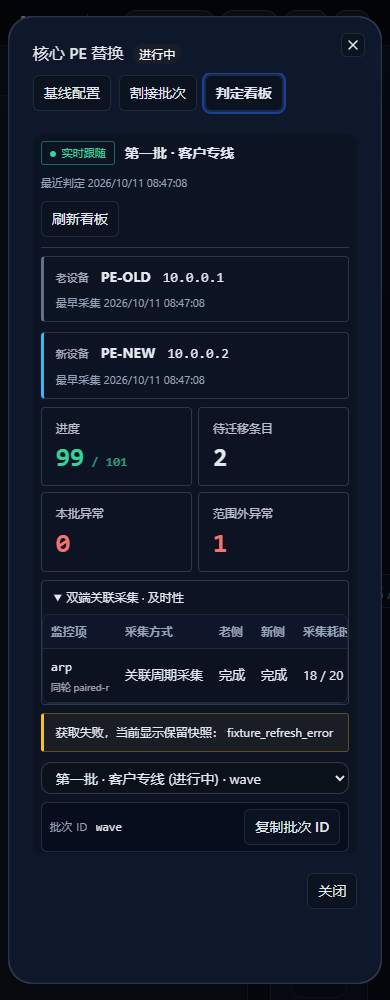
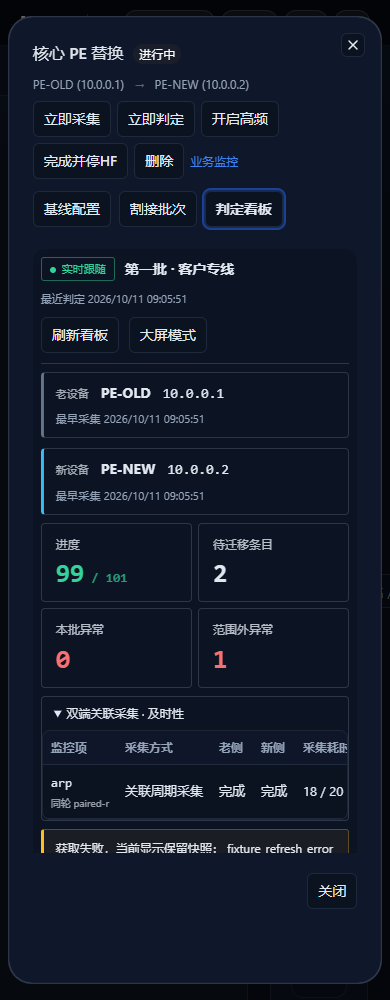
feat(cutover): add live fullscreen monitoring wall

Changed region(s): [[0.0923, 0.062, 0.8923, 0.868], [0.5538, 0.62, 0.7385, 0.682], [0.7692, 0.62, 0.8923, 0.682]]

diff --git a/web/src/pages/network/BizMigrationPage.tsx b/web/src/pages/network/BizMigrationPage.tsx
@@ -489,6 +489,9 @@ export function BizMigrationPage() {
   const [boardLoading, setBoardLoading] = useState(false);
   const [boardError, setBoardError] = useState("");
   const [boardClock, setBoardClock] = useState(Date.now());
+  const [boardFullscreen, setBoardFullscreen] = useState(false);
+  const boardRef = useRef<HTMLDivElement>(null);
+  const fullscreenPending = useRef(false);
   const boardRequest = useRef(0);
   const runsRequest = useRef(0);
   const activeBatchRef = useRef(batchId);
@@ -513,6 +516,66 @@ export function BizMigrationPage() {
   const pairedPending = followLatest && board?.sampling?.some((pair) =>
     [pair.old_collect_status, pair.new_collect_status].some((s) => !["success", "partial"].includes(s || "idle")));
   const coverageUnknown = Boolean(board?.run && (liveSummary?.coverage_complete !== true || samplesStale || pairedPending));
+  const progressPercent = liveProgress?.total
+    ? Math.max(0, Math.min(100, Math.round(liveProgress.ok / liveProgress.total * 100))) : 0;
+  const wallState = boardError ? "unknown" : !board?.run ? "waiting" : coverageUnknown ? "unknown"
+    : (liveSummary?.anomaly || 0) > 0 ? "anomaly" : "normal";
+
+  const exitBoardFullscreen = useCallback(async () => {
+    if (document.fullscreenElement === boardRef.current) {
+      try { await document.exitFullscreen(); } catch { return; }
+    }
+    setBoardFullscreen(false);
+  }, []);
+
+  async function toggleBoardFullscreen() {
+    if (fullscreenPending.current) return;
+    const element = boardRef.current;
+    if (!element) return;
+    fullscreenPending.current = true;
+    try {
+      if (boardFullscreen) {
+        await exitBoardFullscreen();
+        return;
+      }
+      try { await element.requestFullscreen(); } catch { /* Use the full-window layout below. */ }
+      if (boardRef.current === element) setBoardFullscreen(true);
+    } finally {
+      fullscreenPending.current = false;
+    }
+  }
+
+  useEffect(() => {
+    const sync = () => setBoardFullscreen(Boolean(boardRef.current && document.fullscreenElement === boardRef.current));
+    document.addEventListener("fullscreenchange", sync);
+    return () => document.removeEventListener("fullscreenchange", sync);
+  }, []);
+
+  useEffect(() => {
+    const element = boardRef.current;
+    return () => {
+      if (element && document.fullscreenElement === element) void document.exitFullscreen().catch(() => {});
+    };
+  }, [projectId, detailTab]);
+
+  useEffect(() => {
+    if (!boardFullscreen) return;
+    const onEscape = (event: KeyboardEvent) => {
+      if (event.key !== "Escape") return;
+      event.preventDefault();
+      event.stopImmediatePropagation();
+      void exitBoardFullscreen();
+    };
+    window.addEventListener("keydown", onEscape, true);
+    return () => window.removeEventListener("keydown", onEscape, true);
+  }, [boardFullscreen, exitBoardFullscreen]);
+
+  useEffect(() => {
+    if (!projectId || detailTab !== "board") return;
+    // Freshness must keep advancing even when API refreshes fail.
+    const timer = setInterval(() => setBoardClock(Date.now()), 1000);
+    return () => clearInterval(timer);
+  }, [projectId, detailTab]);
 
   const filteredProjects = useMemo(() => {
     const kw = debouncedListKw.trim().toLowerCase();
@@ -1185,6 +1248,7 @@ export function BizMigrationPage() {
   }
 
   const openProject = (id: string, tab: DetailTab = "setup") => {
+    setBoardFullscreen(false);
     setProjectId(id);
     setDetailTab(tab);
     setSelectedExpectKeys(new Set());
@@ -1196,6 +1260,7 @@ export function BizMigrationPage() {
   };
 
   const closeProject = () => {
+    setBoardFullscreen(false);
     setProjectId("");
     setDetailTab("setup");
   };
@@ -2185,9 +2250,10 @@ export function BizMigrationPage() {
       {/* Project detail */}
       <AppModalShell
         open={Boolean(projectId && project)}
-        onClose={closeProject}
-        size="cover"
-        className={detailTab === "board" ? "bs-cmp-board-modal" : undefined}
+        onClose={() => { if (boardFullscreen) void exitBoardFullscreen(); else closeProject(); }}
+        dismissible={!boardFullscreen}
+        size={boardFullscreen ? "full" : "cover"}
+        className={detailTab === "board" ? `bs-cmp-board-modal${boardFullscreen ? " bm-wall-modal" : ""}` : undefined}
       >
         <Modal.Header>
           <Modal.Heading>
@@ -2707,7 +2773,15 @@ export function BizMigrationPage() {
               ) : null}
 
               {detailTab === "board" ? (
-                <div className="bs-cmp-board bm-board">
+                <div ref={boardRef} className={`bs-cmp-board bm-board${boardFullscreen ? " is-wall" : ""}`}>
+                  {boardFullscreen ? <div className="bm-wall-heading">
+                    <div><span className="bm-wall-heading__label">{t("bizMigration.wallTitle")}</span>
+                      <h2>{project.name}</h2></div>
+                    <div className="bm-wall-heading__status">
+                      <span className={`bm-wall-state is-${wallState}`} role="status">{t(`bizMigration.wallState_${wallState}`)}</span>
+                      <time dateTime={new Date(boardClock).toISOString()}>{fmtTime(new Date(boardClock).toISOString())}</time>
+                    </div>
+                  </div> : null}
                   <div className="bm-live-header">
                     <div>
                       <span className={`bm-live-state${monitorIsLive ? " is-live" : ""}`}>
@@ -2716,8 +2790,16 @@ export function BizMigrationPage() {
                       <strong>{batch?.batch_label || "—"}</strong>
                     </div>
                     <span className="muted">{t("bizMigration.evaluatedAt")} {fmtTime(board?.run?.created_at)}</span>
-                    <Button size="sm" variant="secondary" isDisabled={boardLoading || !batchId}
-                      onPress={() => void loadBoard(batchId, historyRunId)}>{t("bizMigration.refreshBoard")}</Button>
+                    <div className="bm-live-header__actions">
+                      <Button size="sm" variant="secondary" isDisabled={boardLoading || !batchId}
+                        onPress={() => void loadBoard(batchId, historyRunId)}>{t("bizMigration.refreshBoard")}</Button>
+                      <Button size="sm" variant="secondary" onPress={() => void toggleBoardFullscreen()}
+                        aria-label={t(boardFullscreen ? "bizMigration.exitFullscreen" : "bizMigration.fullscreen")}
+                        aria-describedby="bm-wall-hint">
+                        {t(boardFullscreen ? "bizMigration.exitFullscreen" : "bizMigration.fullscreen")}
+                      </Button>
+                      <span id="bm-wall-hint" className="visually-hidden">{t("bizMigration.fullscreenHint")}</span>
+                    </div>
                   </div>
                   <div className="bm-live-sources">
                     {(["old", "new"] as const).map((side) => {
@@ -2737,6 +2819,13 @@ export function BizMigrationPage() {
                     <div className="is-bad"><span>{t("bizMigration.anomalyInBatch")}</span><strong>{Math.max(0, (liveSummary?.anomaly ?? 0) - (liveSummary?.anomaly_outside_expect ?? 0))}</strong></div>
                     <div className="is-bad"><span>{t("bizMigration.anomalyOutsideBatch")}</span><strong>{liveSummary?.anomaly_outside_expect ?? 0}</strong></div>
                   </div>
+                  {boardFullscreen ? <div className={`bm-wall-progress${wallState === "unknown" || wallState === "waiting" ? " is-unknown" : ""}`}>
+                    <div><span>{t("bizMigration.wallProgress")}</span><strong>{progressPercent}%</strong></div>
+                    <div className="bm-wall-progress__track" role="progressbar" aria-label={t("bizMigration.wallProgress")}
+                      aria-valuemin={0} aria-valuemax={100} aria-valuenow={progressPercent}>
+                      <span style={{ width: `${progressPercent}%` }} />
+                    </div>
+                  </div> : null}
                   {followLatest && board?.sampling?.length ? <details className="bm-sampling" open>
                     <summary>{t("bizMigration.pairedSampling")}</summary>
                     <div className="pt-list-table-wrap"><table className="data-table pt-list-table">
@@ -2784,6 +2873,8 @@ export function BizMigrationPage() {
                       </span>
                     </div>
                   ) : null}
+                  <details className="bm-board-controls" open={!boardFullscreen}>
+                    <summary>{t("bizMigration.wallFilters")}</summary>
                   <div className="bs-cmp-board__toolbar filter-inline">
                     <FieldSelect
                       value={batchId}
@@ -2879,6 +2970,7 @@ export function BizMigrationPage() {
                         {t("bizMigration.showOutsideAnomalies")}
                       </Button> : null}
                   </div>
+                  </details>
                   {sheetCards.some((c) => c.new_baseline_missing) ? (
                     <div className="form-error bm-hint">
                       {t("bizMigration.newBaselineMissingBanner", {

diff --git a/web/src/index.css b/web/src/index.css
@@ -11213,6 +11213,9 @@ html.login-page--paused .login-page__flare {
 .bm-sampling { border: 1px solid rgba(148,163,184,.25); border-radius: 4px; min-width: 0; }
 .bm-sampling > summary { padding: 8px 12px; cursor: pointer; font-size: 12px; }
 .app-heroui-modal .bm-sampling .pt-list-table-wrap { max-width: 100%; min-height: 0; }
+.bm-live-header__actions { display: flex; gap: 8px; align-items: center; }
+.bm-board-controls > summary { display: none; }
+.bm-board-controls > .bm-live-filters { margin-top: 8px; }
 @media (max-width: 720px) {
   .bm-live-sources { grid-template-columns: 1fr; }
   .bm-live-kpis { grid-template-columns: repeat(2,minmax(0,1fr)); gap: 6px; }
@@ -15786,4 +15789,107 @@ option {
 .pager__jump .input,
 .pager__jump-input {
   width: 4.25rem;
+}
+
+/* Cutover wall: keep one board/poller alive in native or window fullscreen. */
+.app-heroui-modal.bm-wall-modal {
+  width: 100vw !important;
+  max-width: 100vw !important;
+  height: 100dvh;
+  max-height: 100dvh;
+  padding: 0;
+  margin: 0;
+  transform: none;
+  box-sizing: border-box;
+  border: 0;
+}
+.app-heroui-modal.bm-wall-modal .app-heroui-modal__dialog {
+  width: 100% !important;
+  max-width: 100% !important;
+  height: 100%;
+  max-height: 100%;
+  margin: 0;
+  padding: 0;
+  border: 0;
+  border-radius: 0;
+  transform: none;
+  overflow: hidden;
+  box-sizing: border-box;
+}
+.bm-wall-modal .modal__header,
+.bm-wall-modal .modal__footer,
+.bm-wall-modal .bm-detail__chrome,
+.bm-wall-modal .nm-config-modal__tabs { display: none; }
+.app-heroui-modal.bm-wall-modal .bm-detail {
+  width: 100%;
+  min-width: 0;
+  height: 100%;
+  max-height: 100%;
+  margin: 0;
+  padding: 0;
+  gap: 0;
+  overflow: hidden;
+}
+.bm-board.is-wall,
+.bm-board:fullscreen {
+  width: 100%;
+  min-width: 0;
+  height: 100dvh;
+  min-height: 0;
+  max-height: 100dvh;
+  margin: 0;
+  padding: clamp(12px, 1.25vw, 28px);
+  gap: 12px;
+  border-radius: 0;
+  background: #0b1220;
+  color: #e2e8f0;
+  box-sizing: border-box;
+  overflow: auto;
+}
+.bm-board.is-wall > * { flex-shrink: 0; }
+.bm-wall-heading { display: flex; justify-content: space-between; align-items: center; gap: 20px; min-width: 0; }
+.bm-wall-heading > div { min-width: 0; }
+.bm-wall-heading__label { color: #94a3b8; font-size: 13px; letter-spacing: .08em; }
+.bm-wall-heading h2 { margin: 4px 0 0; font-size: clamp(22px, 2vw, 36px); line-height: 1.2; overflow-wrap: anywhere; }
+.bm-wall-heading__status { display: flex; flex-direction: column; align-items: flex-end; gap: 8px; }
+.bm-wall-heading time { color: #94a3b8; font: 14px ui-monospace, monospace; white-space: nowrap; }
+.bm-wall-state { padding: 6px 12px; font-size: 15px; border: 1px solid currentColor; border-radius: 3px; }
+.bm-wall-state.is-normal { color: #34d399; }
+.bm-wall-state.is-anomaly { color: #f87171; }
+.bm-wall-state.is-waiting, .bm-wall-state.is-unknown { color: #fbbf24; }
+.bm-board.is-wall .bm-live-header { position: sticky; top: 0; z-index: 5; background: #0b1220; padding: 8px 0; }
+.bm-board.is-wall .bm-live-header strong { font-size: 17px; }
+.bm-board.is-wall .bm-live-sources strong { font-size: 19px; }
+.bm-board.is-wall .bm-live-kpis > div { padding: 16px 20px; }
+.bm-board.is-wall .bm-live-kpis span { font-size: 16px; }
+.bm-board.is-wall .bm-live-kpis strong { font-size: clamp(40px, 3.5vw, 68px); }
+.bm-board.is-wall .bm-live-kpis strong small { font-size: 20px; }
+.bm-board.is-wall .bm-live-warning { font-size: 14px; }
+.bm-wall-progress { display: flex; align-items: center; gap: 20px; padding: 4px 0; color: #34d399; }
+.bm-wall-progress > div:first-child { display: flex; align-items: baseline; gap: 16px; }
+.bm-wall-progress span { font-size: 13px; }
+.bm-wall-progress strong { font: 600 24px ui-monospace, monospace; }
+.bm-wall-progress.is-unknown { color: #fbbf24; }
+.bm-wall-progress__track { flex: 1; height: 8px; min-width: 60px; background: #243044; border-radius: 2px; overflow: hidden; }
+.bm-wall-progress__track > span { display: block; height: 100%; background: currentColor; }
+.bm-board.is-wall .bm-board-controls > summary { display: list-item; cursor: pointer; color: #94a3b8; font-size: 13px; padding: 6px 0; }
+.bm-board.is-wall .bm-sampling { max-height: 240px; overflow: auto; }
+.bm-board.is-wall .bm-sampling td, .bm-board.is-wall .bm-sampling th { font-size: 14px; }
+.bm-board.is-wall .bs-cmp-board__body { flex: 1 0 260px; min-height: 260px; }
+.bm-board.is-wall .bs-cmp-main { display: flex; min-height: 0; }
+.bm-board.is-wall .bm-board__table { flex: 1; width: 100%; min-height: 0; max-height: none; }
+.bm-board.is-wall .bm-board__table td { font-size: 15px; }
+.bm-board.is-wall .bs-cmp-nav__list { max-height: none; }
+@media (max-width: 720px) {
+  .bm-wall-heading { align-items: flex-start; gap: 12px; }
+  .bm-wall-heading__status { max-width: 48%; }
+  .bm-wall-heading time { font-size: 10px; white-space: normal; }
+  .bm-wall-state { font-size: 12px; padding: 4px 6px; }
+  .bm-board.is-wall .bm-live-kpis > div { padding: 12px; }
+  .bm-board.is-wall .bm-live-kpis strong { font-size: 36px; }
+  .bm-board.is-wall .bm-live-kpis span { font-size: 13px; }
+  .bm-wall-progress { flex-wrap: wrap; gap: 8px; }
+  .bm-wall-progress__track { flex-basis: 100%; }
+  .bm-board.is-wall .bs-cmp-board__body { flex-basis: auto; }
+  .bm-board.is-wall .bm-board__table { max-height: 50dvh; }
 }

diff --git a/web/src/i18n/en.ts b/web/src/i18n/en.ts
@@ -696,6 +696,16 @@ const en = {
     colChange: "Changes",
   },
   bizMigration: {
+    fullscreen: "Wall mode",
+    exitFullscreen: "Exit wall mode",
+    fullscreenHint: "Display cutover status fullscreen. Press Esc to return; use a full-window layout when fullscreen is unavailable.",
+    wallTitle: "Cutover monitoring · Service migration",
+    wallProgress: "Wave migration progress · Current snapshot",
+    wallFilters: "Show filters and evaluation controls",
+    wallState_waiting: "Awaiting evaluation",
+    wallState_unknown: "Data needs confirmation",
+    wallState_anomaly: "Service anomalies detected",
+    wallState_normal: "No service anomalies in current samples",
     pairCollectionHint: "Each metric has a paired collection round. Saving settings updates task bindings. Route tables are manual-only for final checks; use a separate business comparison for millions of routes. Actual cadence depends on command duration and device availability.",
     pairedSampling: "Paired sampling · Timeliness",
     manualRoute: "Manual final check",

diff --git a/web/src/i18n/zh.ts b/web/src/i18n/zh.ts
@@ -695,6 +695,16 @@ const zh = {
     colChange: "变更",
   },
   bizMigration: {
+    fullscreen: "大屏模式",
+    exitFullscreen: "退出大屏",
+    fullscreenHint: "全屏展示割接状态，按 Esc 返回看板；浏览器不支持全屏时使用窗口大屏。",
+    wallTitle: "割接监控 · 业务迁移",
+    wallProgress: "本批迁移进度 · 当前快照",
+    wallFilters: "显示筛选与判定操作",
+    wallState_waiting: "等待判定",
+    wallState_unknown: "数据待确认",
+    wallState_anomaly: "存在业务异常",
+    wallState_normal: "当前样本无业务异常",
     pairCollectionHint: "每个指标两侧同轮关联采集。保存配置会同步增删采集任务；路由项仅手动采集，收尾时再选择，百万路由建议使用独立业务对比任务。频率是目标间隔，实际周期受命令耗时与设备占用影响。",
     pairedSampling: "双端关联采集 · 及时性",
     manualRoute: "手动收尾",
